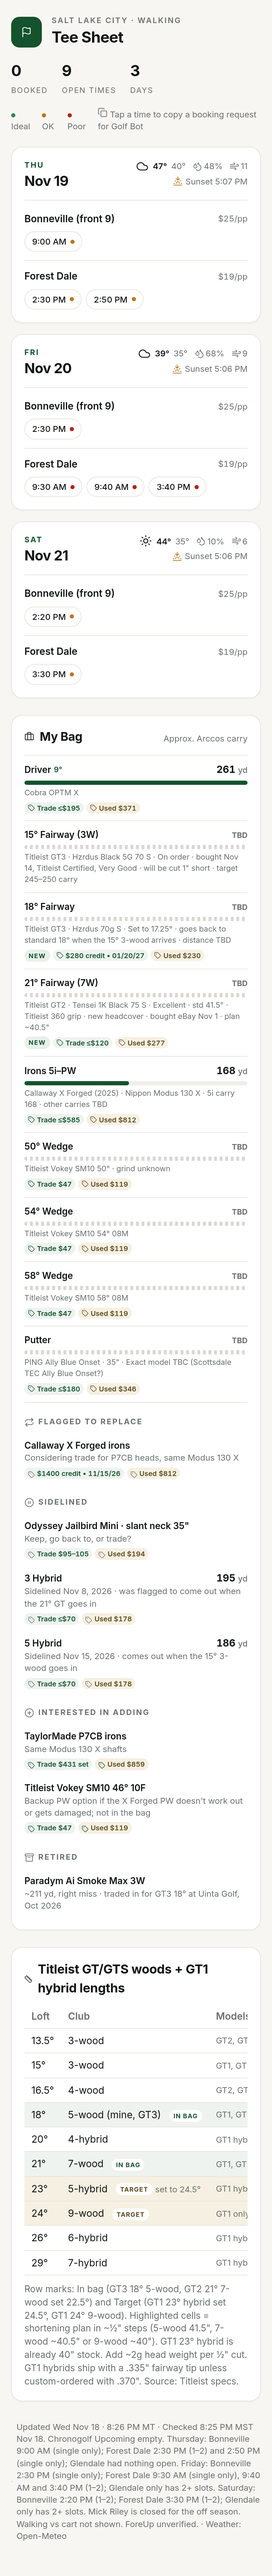
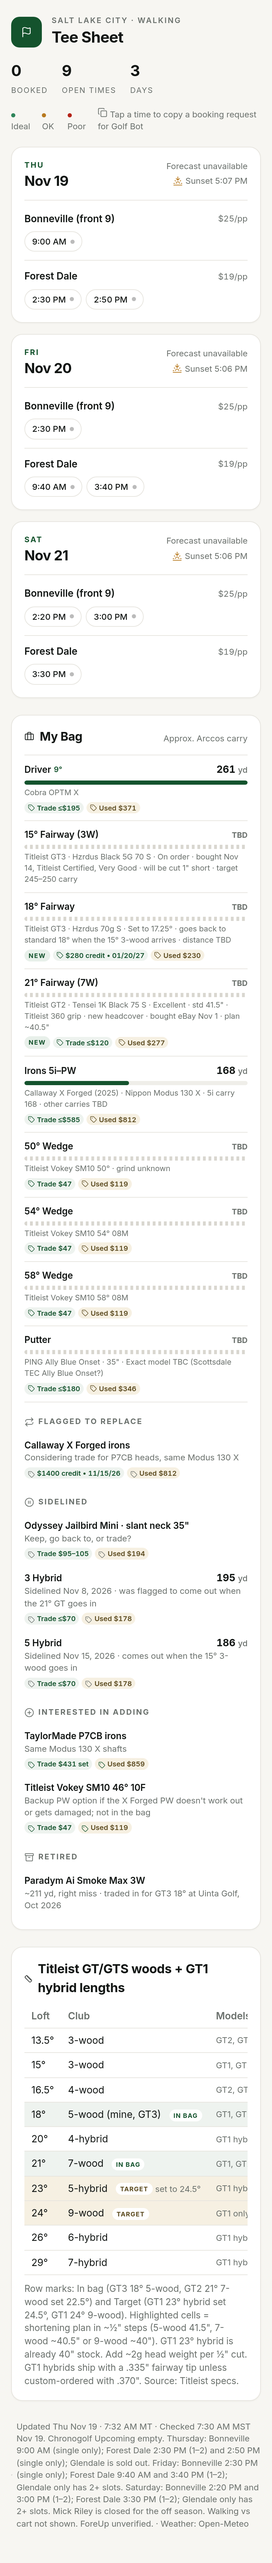
Update schedule 2026-11-19 07:32 MT

diff --git a/index.html b/index.html
@@ -49,8 +49,8 @@ ul{list-style:none;margin:0;padding:0}.ladder{border-top:1px solid var(--ln)}
 <div class="top"><div class="brand"><div class="logo"><i data-lucide="flag" class="ic "></i></div><div><div class="eyebrow">Salt Lake City · Walking</div><h1>Tee Sheet</h1></div></div>
 <div class="stats"><div class="stat"><b>0</b><span>Booked</span></div><div class="stat"><b>9</b><span>Open times</span></div><div class="stat"><b>3</b><span>Days</span></div></div></div>
 <div class="legend"><span><i class="dot ideal"></i>Ideal</span><span><i class="dot ok"></i>OK</span><span><i class="dot poor"></i>Poor</span><span><i data-lucide="copy" class="ic s"></i> Tap a time to copy a booking request for Golf Bot</span></div>
-<div class="layout"><div class="grid"><section class="card day"><header><div><div class="dow">Thu</div><div class="dt">Nov 19</div></div><div class="wxc"><div class="sum" title="☁ Overcast (7a–7p)"><i data-lucide="cloud" class="ic "></i><span class="hi">47°</span><span class="lo">40°</span><span class="m"><i data-lucide="droplets" class="ic s"></i>48%</span><span class="m"><i data-lucide="wind" class="ic s"></i>11</span></div><div class="sun"><i data-lucide="sunset" class="ic s"></i>Sunset 5:07 PM</div></div></header><div class="crs"><div class="row"><span class="cn">Bonneville (front 9)</span><span class="pr">$25/pp</span></div><div class="tts"><button class="tt ok" data-msg="Book Bonneville (front 9) Thu Nov 19 9:00 AM" title="☁ Overcast · 42°F · 18% precip · 9 mph · tap to copy booking request" aria-label="Copy: Book Bonneville (front 9) Thu Nov 19 9:00 AM" onclick="cp(this)"><span>9:00 AM</span><i class="dot"></i></button></div></div><div class="crs"><div class="row"><span class="cn">Forest Dale</span><span class="pr">$19/pp</span></div><div class="tts"><button class="tt ok" data-msg="Book Forest Dale Thu Nov 19 2:30 PM" title="☁ Overcast · 47°F · 34% precip · 8 mph · tap to copy booking request" aria-label="Copy: Book Forest Dale Thu Nov 19 2:30 PM" onclick="cp(this)"><span>2:30 PM</span><i class="dot"></i></button><button class="tt ok" data-msg="Book Forest Dale Thu Nov 19 2:50 PM" title="☁ Overcast · 47°F · 34% precip · 8 mph · tap to copy booking request" aria-label="Copy: Book Forest Dale Thu Nov 19 2:50 PM" onclick="cp(this)"><span>2:50 PM</span><i class="dot"></i></button></div></div></section><section class="card day"><header><div><div class="dow">Fri</div><div class="dt">Nov 20</div></div><div class="wxc"><div class="sum" title="☁ Overcast (7a–7p)"><i data-lucide="cloud" class="ic "></i><span class="hi">39°</span><span class="lo">35°</span><span class="m"><i data-lucide="droplets" class="ic s"></i>68%</span><span class="m"><i data-lucide="wind" class="ic s"></i>9</span></div><div class="sun"><i data-lucide="sunset" class="ic s"></i>Sunset 5:06 PM</div></div></header><div class="crs"><div class="row"><span class="cn">Bonneville (front 9)</span><span class="pr">$25/pp</span></div><div class="tts"><button class="tt poor" data-msg="Book Bonneville (front 9) Fri Nov 20 2:30 PM" title="☁ Overcast · 38°F · 68% precip · 6 mph · tap to copy booking request" aria-label="Copy: Book Bonneville (front 9) Fri Nov 20 2:30 PM" onclick="cp(this)"><span>2:30 PM</span><i class="dot"></i></button></div></div><div class="crs"><div class="row"><span class="cn">Forest Dale</span><span class="pr">$19/pp</span></div><div class="tts"><button class="tt poor" data-msg="Book Forest Dale Fri Nov 20 9:30 AM" title="☁ Overcast · 35°F · 56% precip · 5 mph · tap to copy booking request" aria-label="Copy: Book Forest Dale Fri Nov 20 9:30 AM" onclick="cp(this)"><span>9:30 AM</span><i class="dot"></i></button><button class="tt poor" data-msg="Book Forest Dale Fri Nov 20 9:40 AM" title="☁ Overcast · 35°F · 56% precip · 5 mph · tap to copy booking request" aria-label="Copy: Book Forest Dale Fri Nov 20 9:40 AM" onclick="cp(this)"><span>9:40 AM</span><i class="dot"></i></button><button class="tt poor" data-msg="Book Forest Dale Fri Nov 20 3:40 PM" title="☁ Overcast · 39°F · 68% precip · 7 mph · tap to copy booking request" aria-label="Copy: Book Forest Dale Fri Nov 20 3:40 PM" onclick="cp(this)"><span>3:40 PM</span><i class="dot"></i></button></div></div></section><section class="card day"><header><div><div class="dow">Sat</div><div class="dt">Nov 21</div></div><div class="wxc"><div class="sum" title="☀ Clear (7a–7p)"><i data-lucide="sun" class="ic "></i><span class="hi">44°</span><span class="lo">35°</span><span class="m"><i data-lucide="droplets" class="ic s"></i>10%</span><span class="m"><i data-lucide="wind" class="ic s"></i>6</span></div><div class="sun"><i data-lucide="sunset" class="ic s"></i>Sunset 5:06 PM</div></div></header><div class="crs"><div class="row"><span class="cn">Bonneville (front 9)</span><span class="pr">$25/pp</span></div><div class="tts"><button class="tt ok" data-msg="Book Bonneville (front 9) Sat Nov 21 2:20 PM" title="☀ Clear · 43°F · 2% precip · 4 mph · tap to copy booking request" aria-label="Copy: Book Bonneville (front 9) Sat Nov 21 2:20 PM" onclick="cp(this)"><span>2:20 PM</span><i class="dot"></i></button></div></div><div class="crs"><div class="row"><span class="cn">Forest Dale</span><span class="pr">$19/pp</span></div><div class="tts"><button class="tt ok" data-msg="Book Forest Dale Sat Nov 21 3:30 PM" title="☀ Clear · 44°F · 2% precip · 3 mph · tap to copy booking request" aria-label="Copy: Book Forest Dale Sat Nov 21 3:30 PM" onclick="cp(this)"><span>3:30 PM</span><i class="dot"></i></button></div></div></section></div><section class="card bag"><header><h2><i data-lucide="briefcase" class="ic s"></i>My Bag</h2><span class="muted">Approx. Arccos carry</span></header><ul class="ladder"><li class="lad"><div class="l1"><div class="cname">Driver <small>9°</small></div><div class="yd">261 <small>yd</small></div></div><div class="bar"><span style="width:100%"></span></div><div class="muted">Cobra OPTM X</div><div class=bdg><span class="val" title="On in Two trade-in (up-to ceiling) · Cobra OPTM X driver · 2026-11-16"><i data-lucide="tag" class="ic xs"></i>Trade ≤$195</span><span class="val used" title="2nd Swing used OPTM X Stiff: 9° Mint $379.99 (Kai&#x27;li White 60), 10.5° Above Average $362.99 · 2026-11-02"><i data-lucide="tag" class="ic xs"></i>Used $371</span></div></li><li class="lad"><div class="l1"><div class="cname">15° Fairway (3W)</div><div class="yd muted">TBD</div></div><div class="bar tbd"><span></span></div><div class="muted">Titleist GT3 · Hzrdus Black 5G 70 S · On order · bought Nov 14, Titleist Certified, Very Good · will be cut 1&quot; short · target 245–250 carry</div></li><li class="lad"><div class="l1"><div class="cname">18° Fairway</div><div class="yd muted">TBD</div></div><div class="bar tbd"><span></span></div><div class="muted">Titleist GT3 · Hzrdus 70g S · Set to 17.25° · goes back to standard 18° when the 15° 3-wood arrives · distance TBD</div><div class=bdg><span class="pill sm">New</span><span class="val" title="Uinta Golf 90-day guarantee, bought Oct 22, 2026 · 2026-10-22"><i data-lucide="tag" class="ic xs"></i>$280 credit • 01/20/27</span><span class="val used" title="Global Golf used GT3 fairway Excellent $229.99; eBay sold GT3 18° 5W median $231 (Teeworth, 90 days) · 2026-10-26"><i data-lucide="tag" class="ic xs"></i>Used $230</span></div></li><li class="lad"><div class="l1"><div class="cname">21° Fairway (7W)</div><div class="yd muted">TBD</div></div><div class="bar tbd"><span></span></div><div class="muted">Titleist GT2 · Tensei 1K Black 75 S · Excellent · std 41.5&quot; · Titleist 360 grip · new headcover · bought eBay Nov 1 · plan ~40.5&quot;</div><div class=bdg><span class="pill sm">New</span><span class="val" title="On in Two trade-in (up-to ceiling, excellent) · Titleist GT2 fairway · 2026-11-16"><i data-lucide="tag" class="ic xs"></i>Trade ≤$120</span><span class="val used" title="Avg of Global Golf GT2 Very Good $264.99 and Next Round GT2 Excellent $289.99; eBay sold median $200 (45 sales, Face Value Golf) · 2026-10-26"><i data-lucide="tag" class="ic xs"></i>Used $277</span></div></li><li class="lad"><div class="l1"><div class="cname">Irons 5i–PW</div><div class="yd">168 <small>yd</small></div></div><div class="bar"><span style="width:47%"></span></div><div class="muted">Callaway X Forged (2025) · Nippon Modus 130 X · 5i carry 168 · other carries TBD</div><div class=bdg><span class="val" title="On in Two trade-in (up-to ceiling) · Callaway 2025 X Forged iron set; set composition/shaft not specified, so 5i–PW offer may differ · 2026-11-16"><i data-lucide="tag" class="ic xs"></i>Trade ≤$585</span><span class="val used" title="FairwayWire eBay sold avg, X Forged 2025 set (18 sales, mostly 4-PW, mixed shafts); Excellent/Very Good sales $986–$1,200 · 2026-10-26"><i data-lucide="tag" class="ic xs"></i>Used $812</span></div></li><li class="lad"><div class="l1"><div class="cname">50° Wedge</div><div class="yd muted">TBD</div></div><div class="bar tbd"><span></span></div><div class="muted">Titleist Vokey SM10 50° · grind unknown</div><div class=bdg><span class="val" title="2nd Swing store credit via Face Value Golf (SM10 family, avg cond., checked Nov 14); best cash $45–47 · 2026-11-16"><i data-lucide="tag" class="ic xs"></i>Trade $47</span><span class="val used" title="Titleist Certified Pre-Owned SM10 Excellent $119 · 2026-10-26"><i data-lucide="tag" class="ic xs"></i>Used $119</span></div></li><li class="lad"><div class="l1"><div class="cname">54° Wedge</div><div class="yd muted">TBD</div></div><div class="bar tbd"><span></span></div><div class="muted">Titleist Vokey SM10 54° 08M</div><div class=bdg><span class="val" title="2nd Swing store credit via Face Value Golf (SM10 family, avg cond., checked Nov 14); best cash $45–47 · 2026-11-16"><i data-lucide="tag" class="ic xs"></i>Trade $47</span><span class="val used" title="Titleist Certified Pre-Owned SM10 Excellent $119 · 2026-10-26"><i data-lucide="tag" class="ic xs"></i>Used $119</span></div></li><li class="lad"><div class="l1"><div class="cname">58° Wedge</div><div class="yd muted">TBD</div></div><div class="bar tbd"><span></span></div><div class="muted">Titleist Vokey SM10 58° 08M</div><div class=bdg><span class="val" title="2nd Swing store credit via Face Value Golf (SM10 family, avg cond., checked Nov 14); best cash $45–47 · 2026-11-16"><i data-lucide="tag" class="ic xs"></i>Trade $47</span><span class="val used" title="Titleist Certified Pre-Owned SM10 Excellent $119 · 2026-10-26"><i data-lucide="tag" class="ic xs"></i>Used $119</span></div></li><li class="lad"><div class="l1"><div class="cname">Putter</div><div class="yd muted">TBD</div></div><div class="bar tbd"><span></span></div><div class="muted">PING Ally Blue Onset · 35&quot; · Exact model TBC (Scottsdale TEC Ally Blue Onset?)</div><div class=bdg><span class="val" title="On in Two trade-in (up-to ceiling) · Scottsdale TEC Ally Blue Onset; PLD SE Ally Blue 4 Onset $185 · 2026-11-16"><i data-lucide="tag" class="ic xs"></i>Trade ≤$180</span><span class="val used" title="ClubChecks used target, Scottsdale TEC Ally Blue Onset; Carl&#x27;s Golfland 35&quot; Very Good $349.99 · 2026-10-26"><i data-lucide="tag" class="ic xs"></i>Used $346</span></div></li></ul><div class="subs"><div class="sub"><h3><i data-lucide="repeat" class="ic s"></i>Flagged to replace</h3><ul class="lst replace"><li><div class="it"><div class="l1"><div class="cname">Callaway X Forged irons</div></div><div class="muted">Considering trade for P7CB heads, same Modus 130 X</div><div class=bdg><span class="val" title="Jason: trade-in guarantee value, trade by Nov 15, 2026 (deadline approx., per Jason) · 2026-10-26"><i data-lucide="tag" class="ic xs"></i>$1400 credit • 11/15/26</span><span class="val used" title="FairwayWire eBay sold avg, X Forged 2025 set (18 sales, mostly 4-PW, mixed shafts); Excellent/Very Good sales $986–$1,200 · 2026-10-26"><i data-lucide="tag" class="ic xs"></i>Used $812</span></div></div></li></ul></div><div class="sub"><h3><i data-lucide="pause-circle" class="ic s"></i>Sidelined</h3><ul class="lst sidelined"><li><div class="it"><div class="l1"><div class="cname">Odyssey Jailbird Mini · slant neck 35&quot;</div></div><div class="muted">Keep, go back to, or trade?</div><div class=bdg><span class="val" title="On in Two trade-in ceilings: Ai-ONE Jailbird Mini S $95 – Ai-DUAL Jailbird Mini $105 (exact version TBC) · 2026-11-16"><i data-lucide="tag" class="ic xs"></i>Trade $95–105</span><span class="val used" title="Golf Club Index avg sold, Odyssey Ai-ONE Jailbird Mini (exact version TBC) · 2026-10-26"><i data-lucide="tag" class="ic xs"></i>Used $194</span></div></div></li><li><div class="it"><div class="l1"><div class="cname">3 Hybrid</div><div class=yd>195 <small>yd</small></div></div><div class="muted">Sidelined Nov 8, 2026 · was flagged to come out when the 21° GT goes in</div><div class=bdg><span class="val" title="On in Two trade-in (up-to ceiling) · 2026-11-16"><i data-lucide="tag" class="ic xs"></i>Trade ≤$70</span><span class="val used" title="Face Value Golf typical used asking, Paradym Super hybrid Above Average grade (Callaway Pre-Owned from $120 Avg) · 2026-10-26"><i data-lucide="tag" class="ic xs"></i>Used $178</span></div></div></li><li><div class="it"><div class="l1"><div class="cname">5 Hybrid</div><div class=yd>186 <small>yd</small></div></div><div class="muted">Sidelined Nov 15, 2026 · comes out when the 15° 3-wood goes in</div><div class=bdg><span class="val" title="On in Two trade-in (up-to ceiling) · 2026-11-16"><i data-lucide="tag" class="ic xs"></i>Trade ≤$70</span><span class="val used" title="Face Value Golf typical used asking, Paradym Super hybrid Above Average grade (Callaway Pre-Owned from $120 Avg) · 2026-10-26"><i data-lucide="tag" class="ic xs"></i>Used $178</span></div></div></li></ul></div><div class="sub"><h3><i data-lucide="plus-circle" class="ic s"></i>Interested in adding</h3><ul class="lst add"><li><div class="it"><div class="l1"><div class="cname">TaylorMade P7CB irons</div></div><div class="muted">Same Modus 130 X shafts</div><div class=bdg><span class="val" title="Face Value Golf: best cash offer, iGolf Value Guide, 7-club set, Average ($61.50/club), checked Oct 11 · 2026-10-26"><i data-lucide="tag" class="ic xs"></i>Trade $431 set</span><span class="val used" title="Face Value Golf typical used asking, 7-club set, median of 44 listings (Average or better), checked Oct 11; Global Golf Average 4-PW $760 · 2026-10-26"><i data-lucide="tag" class="ic xs"></i>Used $859</span></div></div></li><li><div class="it"><div class="l1"><div class="cname">Titleist Vokey SM10 46° 10F</div></div><div class="muted">Backup PW option if the X Forged PW doesn&#x27;t work out or gets damaged; not in the bag</div><div class=bdg><span class="val" title="2nd Swing store credit via Face Value Golf (SM10 family, avg cond.) · 2026-10-23"><i data-lucide="tag" class="ic xs"></i>Trade $47</span><span class="val used" title="Titleist Certified Pre-Owned SM10 Excellent $119 · 2026-10-26"><i data-lucide="tag" class="ic xs"></i>Used $119</span></div></div></li></ul></div><div class="sub"><h3><i data-lucide="archive" class="ic s"></i>Retired</h3><ul class="lst retired"><li><div class="it"><div class="l1"><div class="cname">Paradym Ai Smoke Max 3W</div></div><div class="muted">~211 yd, right miss · traded in for GT3 18° at Uinta Golf, Oct 2026</div></div></li></ul></div></div></section></div><section class="card lenchart"><header><h2><i data-lucide="ruler" class="ic s"></i>Titleist GT/GTS woods + GT1 hybrid lengths</h2></header><div class="tw"><table><thead><tr><th>Loft</th><th>Club</th><th>Models</th><th>Std</th><th>−½"</th><th>−1"</th></tr></thead><tbody><tr><td>13.5°</td><td>3-wood</td><td class="muted">GT2, GTS2</td><td>43"</td><td>42.5"</td><td>42"</td></tr><tr><td>15°</td><td>3-wood</td><td class="muted">GT1, GT2, GT3, GTS</td><td>43"</td><td>42.5"</td><td>42"</td></tr><tr><td>16.5°</td><td>4-wood</td><td class="muted">GT2, GT3, GTS</td><td>43"</td><td>42.5"</td><td>42"</td></tr><tr class="inbag"><td>18°</td><td>5-wood (mine, GT3) <span class="mtag">In bag</span></td><td class="muted">GT1, GT2, GT3, GTS</td><td>42"</td><td class=hl>41.5"</td><td>41"</td></tr><tr><td>20°</td><td>4-hybrid</td><td class="muted">GT1 hybrid</td><td>40.5"</td><td>40"</td><td>39.5"</td></tr><tr class="inbag"><td>21°</td><td>7-wood <span class="mtag">In bag</span></td><td class="muted">GT1, GT2, GTS</td><td>41.5"</td><td>41"</td><td class=hl>40.5"</td></tr><tr class="target"><td>23°</td><td>5-hybrid <span class="mtag">Target</span> <span class="muted">set to 24.5°</span></td><td class="muted">GT1 hybrid</td><td>40"</td><td>39.5"</td><td>39"</td></tr><tr class="target"><td>24°</td><td>9-wood <span class="mtag">Target</span></td><td class="muted">GT1 only</td><td>41"</td><td>40.5"</td><td class=hl>40"</td></tr><tr><td>26°</td><td>6-hybrid</td><td class="muted">GT1 hybrid</td><td>39.5"</td><td>39"</td><td>38.5"</td></tr><tr><td>29°</td><td>7-hybrid</td><td class="muted">GT1 hybrid</td><td>39"</td><td>38.5"</td><td>38"</td></tr></tbody></table></div><p class="muted">Row marks: In bag (GT3 18° 5-wood, GT2 21° 7-wood set 22.5°) and Target (GT1 23° hybrid set 24.5°, GT1 24° 9-wood). Highlighted cells = shortening plan in ~½" steps (5-wood 41.5", 7-wood ~40.5" or 9-wood ~40"). GT1 23° hybrid is already 40" stock. Add ~2g head weight per ½" cut. GT1 hybrids ship with a .335" fairway tip unless custom-ordered with .370". Source: Titleist specs.</p></section>
-<div class="foot"><i data-lucide="refresh-cw" class="ic s"></i>Updated Wed Nov 18 · 8:26 PM MT · Checked 8:25 PM MST Nov 18. Chronogolf Upcoming empty. Thursday: Bonneville 9:00 AM (single only); Forest Dale 2:30 PM (1–2) and 2:50 PM (single only); Glendale had nothing open. Friday: Bonneville 2:30 PM (single only); Forest Dale 9:30 AM (single only), 9:40 AM and 3:40 PM (1–2); Glendale only has 2+ slots. Saturday: Bonneville 2:20 PM (1–2); Forest Dale 3:30 PM (1–2); Glendale only has 2+ slots. Mick Riley is closed for the off season. Walking vs cart not shown. ForeUp unverified. · Weather: Open-Meteo</div></div>
+<div class="layout"><div class="grid"><section class="card day"><header><div><div class="dow">Thu</div><div class="dt">Nov 19</div></div><div class="wxc"><div class="sum muted">Forecast unavailable</div><div class="sun"><i data-lucide="sunset" class="ic s"></i>Sunset 5:07 PM</div></div></header><div class="crs"><div class="row"><span class="cn">Bonneville (front 9)</span><span class="pr">$25/pp</span></div><div class="tts"><button class="tt na" data-msg="Book Bonneville (front 9) Thu Nov 19 9:00 AM" title="Weather unavailable · tap to copy booking request" aria-label="Copy: Book Bonneville (front 9) Thu Nov 19 9:00 AM" onclick="cp(this)"><span>9:00 AM</span><i class="dot"></i></button></div></div><div class="crs"><div class="row"><span class="cn">Forest Dale</span><span class="pr">$19/pp</span></div><div class="tts"><button class="tt na" data-msg="Book Forest Dale Thu Nov 19 2:30 PM" title="Weather unavailable · tap to copy booking request" aria-label="Copy: Book Forest Dale Thu Nov 19 2:30 PM" onclick="cp(this)"><span>2:30 PM</span><i class="dot"></i></button><button class="tt na" data-msg="Book Forest Dale Thu Nov 19 2:50 PM" title="Weather unavailable · tap to copy booking request" aria-label="Copy: Book Forest Dale Thu Nov 19 2:50 PM" onclick="cp(this)"><span>2:50 PM</span><i class="dot"></i></button></div></div></section><section class="card day"><header><div><div class="dow">Fri</div><div class="dt">Nov 20</div></div><div class="wxc"><div class="sum muted">Forecast unavailable</div><div class="sun"><i data-lucide="sunset" class="ic s"></i>Sunset 5:06 PM</div></div></header><div class="crs"><div class="row"><span class="cn">Bonneville (front 9)</span><span class="pr">$25/pp</span></div><div class="tts"><button class="tt na" data-msg="Book Bonneville (front 9) Fri Nov 20 2:30 PM" title="Weather unavailable · tap to copy booking request" aria-label="Copy: Book Bonneville (front 9) Fri Nov 20 2:30 PM" onclick="cp(this)"><span>2:30 PM</span><i class="dot"></i></button></div></div><div class="crs"><div class="row"><span class="cn">Forest Dale</span><span class="pr">$19/pp</span></div><div class="tts"><button class="tt na" data-msg="Book Forest Dale Fri Nov 20 9:40 AM" title="Weather unavailable · tap to copy booking request" aria-label="Copy: Book Forest Dale Fri Nov 20 9:40 AM" onclick="cp(this)"><span>9:40 AM</span><i class="dot"></i></button><button class="tt na" data-msg="Book Forest Dale Fri Nov 20 3:40 PM" title="Weather unavailable · tap to copy booking request" aria-label="Copy: Book Forest Dale Fri Nov 20 3:40 PM" onclick="cp(this)"><span>3:40 PM</span><i class="dot"></i></button></div></div></section><section class="card day"><header><div><div class="dow">Sat</div><div class="dt">Nov 21</div></div><div class="wxc"><div class="sum muted">Forecast unavailable</div><div class="sun"><i data-lucide="sunset" class="ic s"></i>Sunset 5:06 PM</div></div></header><div class="crs"><div class="row"><span class="cn">Bonneville (front 9)</span><span class="pr">$25/pp</span></div><div class="tts"><button class="tt na" data-msg="Book Bonneville (front 9) Sat Nov 21 2:20 PM" title="Weather unavailable · tap to copy booking request" aria-label="Copy: Book Bonneville (front 9) Sat Nov 21 2:20 PM" onclick="cp(this)"><span>2:20 PM</span><i class="dot"></i></button><button class="tt na" data-msg="Book Bonneville (front 9) Sat Nov 21 3:00 PM" title="Weather unavailable · tap to copy booking request" aria-label="Copy: Book Bonneville (front 9) Sat Nov 21 3:00 PM" onclick="cp(this)"><span>3:00 PM</span><i class="dot"></i></button></div></div><div class="crs"><div class="row"><span class="cn">Forest Dale</span><span class="pr">$19/pp</span></div><div class="tts"><button class="tt na" data-msg="Book Forest Dale Sat Nov 21 3:30 PM" title="Weather unavailable · tap to copy booking request" aria-label="Copy: Book Forest Dale Sat Nov 21 3:30 PM" onclick="cp(this)"><span>3:30 PM</span><i class="dot"></i></button></div></div></section></div><section class="card bag"><header><h2><i data-lucide="briefcase" class="ic s"></i>My Bag</h2><span class="muted">Approx. Arccos carry</span></header><ul class="ladder"><li class="lad"><div class="l1"><div class="cname">Driver <small>9°</small></div><div class="yd">261 <small>yd</small></div></div><div class="bar"><span style="width:100%"></span></div><div class="muted">Cobra OPTM X</div><div class=bdg><span class="val" title="On in Two trade-in (up-to ceiling) · Cobra OPTM X driver · 2026-11-16"><i data-lucide="tag" class="ic xs"></i>Trade ≤$195</span><span class="val used" title="2nd Swing used OPTM X Stiff: 9° Mint $379.99 (Kai&#x27;li White 60), 10.5° Above Average $362.99 · 2026-11-02"><i data-lucide="tag" class="ic xs"></i>Used $371</span></div></li><li class="lad"><div class="l1"><div class="cname">15° Fairway (3W)</div><div class="yd muted">TBD</div></div><div class="bar tbd"><span></span></div><div class="muted">Titleist GT3 · Hzrdus Black 5G 70 S · On order · bought Nov 14, Titleist Certified, Very Good · will be cut 1&quot; short · target 245–250 carry</div></li><li class="lad"><div class="l1"><div class="cname">18° Fairway</div><div class="yd muted">TBD</div></div><div class="bar tbd"><span></span></div><div class="muted">Titleist GT3 · Hzrdus 70g S · Set to 17.25° · goes back to standard 18° when the 15° 3-wood arrives · distance TBD</div><div class=bdg><span class="pill sm">New</span><span class="val" title="Uinta Golf 90-day guarantee, bought Oct 22, 2026 · 2026-10-22"><i data-lucide="tag" class="ic xs"></i>$280 credit • 01/20/27</span><span class="val used" title="Global Golf used GT3 fairway Excellent $229.99; eBay sold GT3 18° 5W median $231 (Teeworth, 90 days) · 2026-10-26"><i data-lucide="tag" class="ic xs"></i>Used $230</span></div></li><li class="lad"><div class="l1"><div class="cname">21° Fairway (7W)</div><div class="yd muted">TBD</div></div><div class="bar tbd"><span></span></div><div class="muted">Titleist GT2 · Tensei 1K Black 75 S · Excellent · std 41.5&quot; · Titleist 360 grip · new headcover · bought eBay Nov 1 · plan ~40.5&quot;</div><div class=bdg><span class="pill sm">New</span><span class="val" title="On in Two trade-in (up-to ceiling, excellent) · Titleist GT2 fairway · 2026-11-16"><i data-lucide="tag" class="ic xs"></i>Trade ≤$120</span><span class="val used" title="Avg of Global Golf GT2 Very Good $264.99 and Next Round GT2 Excellent $289.99; eBay sold median $200 (45 sales, Face Value Golf) · 2026-10-26"><i data-lucide="tag" class="ic xs"></i>Used $277</span></div></li><li class="lad"><div class="l1"><div class="cname">Irons 5i–PW</div><div class="yd">168 <small>yd</small></div></div><div class="bar"><span style="width:47%"></span></div><div class="muted">Callaway X Forged (2025) · Nippon Modus 130 X · 5i carry 168 · other carries TBD</div><div class=bdg><span class="val" title="On in Two trade-in (up-to ceiling) · Callaway 2025 X Forged iron set; set composition/shaft not specified, so 5i–PW offer may differ · 2026-11-16"><i data-lucide="tag" class="ic xs"></i>Trade ≤$585</span><span class="val used" title="FairwayWire eBay sold avg, X Forged 2025 set (18 sales, mostly 4-PW, mixed shafts); Excellent/Very Good sales $986–$1,200 · 2026-10-26"><i data-lucide="tag" class="ic xs"></i>Used $812</span></div></li><li class="lad"><div class="l1"><div class="cname">50° Wedge</div><div class="yd muted">TBD</div></div><div class="bar tbd"><span></span></div><div class="muted">Titleist Vokey SM10 50° · grind unknown</div><div class=bdg><span class="val" title="2nd Swing store credit via Face Value Golf (SM10 family, avg cond., checked Nov 14); best cash $45–47 · 2026-11-16"><i data-lucide="tag" class="ic xs"></i>Trade $47</span><span class="val used" title="Titleist Certified Pre-Owned SM10 Excellent $119 · 2026-10-26"><i data-lucide="tag" class="ic xs"></i>Used $119</span></div></li><li class="lad"><div class="l1"><div class="cname">54° Wedge</div><div class="yd muted">TBD</div></div><div class="bar tbd"><span></span></div><div class="muted">Titleist Vokey SM10 54° 08M</div><div class=bdg><span class="val" title="2nd Swing store credit via Face Value Golf (SM10 family, avg cond., checked Nov 14); best cash $45–47 · 2026-11-16"><i data-lucide="tag" class="ic xs"></i>Trade $47</span><span class="val used" title="Titleist Certified Pre-Owned SM10 Excellent $119 · 2026-10-26"><i data-lucide="tag" class="ic xs"></i>Used $119</span></div></li><li class="lad"><div class="l1"><div class="cname">58° Wedge</div><div class="yd muted">TBD</div></div><div class="bar tbd"><span></span></div><div class="muted">Titleist Vokey SM10 58° 08M</div><div class=bdg><span class="val" title="2nd Swing store credit via Face Value Golf (SM10 family, avg cond., checked Nov 14); best cash $45–47 · 2026-11-16"><i data-lucide="tag" class="ic xs"></i>Trade $47</span><span class="val used" title="Titleist Certified Pre-Owned SM10 Excellent $119 · 2026-10-26"><i data-lucide="tag" class="ic xs"></i>Used $119</span></div></li><li class="lad"><div class="l1"><div class="cname">Putter</div><div class="yd muted">TBD</div></div><div class="bar tbd"><span></span></div><div class="muted">PING Ally Blue Onset · 35&quot; · Exact model TBC (Scottsdale TEC Ally Blue Onset?)</div><div class=bdg><span class="val" title="On in Two trade-in (up-to ceiling) · Scottsdale TEC Ally Blue Onset; PLD SE Ally Blue 4 Onset $185 · 2026-11-16"><i data-lucide="tag" class="ic xs"></i>Trade ≤$180</span><span class="val used" title="ClubChecks used target, Scottsdale TEC Ally Blue Onset; Carl&#x27;s Golfland 35&quot; Very Good $349.99 · 2026-10-26"><i data-lucide="tag" class="ic xs"></i>Used $346</span></div></li></ul><div class="subs"><div class="sub"><h3><i data-lucide="repeat" class="ic s"></i>Flagged to replace</h3><ul class="lst replace"><li><div class="it"><div class="l1"><div class="cname">Callaway X Forged irons</div></div><div class="muted">Considering trade for P7CB heads, same Modus 130 X</div><div class=bdg><span class="val" title="Jason: trade-in guarantee value, trade by Nov 15, 2026 (deadline approx., per Jason) · 2026-10-26"><i data-lucide="tag" class="ic xs"></i>$1400 credit • 11/15/26</span><span class="val used" title="FairwayWire eBay sold avg, X Forged 2025 set (18 sales, mostly 4-PW, mixed shafts); Excellent/Very Good sales $986–$1,200 · 2026-10-26"><i data-lucide="tag" class="ic xs"></i>Used $812</span></div></div></li></ul></div><div class="sub"><h3><i data-lucide="pause-circle" class="ic s"></i>Sidelined</h3><ul class="lst sidelined"><li><div class="it"><div class="l1"><div class="cname">Odyssey Jailbird Mini · slant neck 35&quot;</div></div><div class="muted">Keep, go back to, or trade?</div><div class=bdg><span class="val" title="On in Two trade-in ceilings: Ai-ONE Jailbird Mini S $95 – Ai-DUAL Jailbird Mini $105 (exact version TBC) · 2026-11-16"><i data-lucide="tag" class="ic xs"></i>Trade $95–105</span><span class="val used" title="Golf Club Index avg sold, Odyssey Ai-ONE Jailbird Mini (exact version TBC) · 2026-10-26"><i data-lucide="tag" class="ic xs"></i>Used $194</span></div></div></li><li><div class="it"><div class="l1"><div class="cname">3 Hybrid</div><div class=yd>195 <small>yd</small></div></div><div class="muted">Sidelined Nov 8, 2026 · was flagged to come out when the 21° GT goes in</div><div class=bdg><span class="val" title="On in Two trade-in (up-to ceiling) · 2026-11-16"><i data-lucide="tag" class="ic xs"></i>Trade ≤$70</span><span class="val used" title="Face Value Golf typical used asking, Paradym Super hybrid Above Average grade (Callaway Pre-Owned from $120 Avg) · 2026-10-26"><i data-lucide="tag" class="ic xs"></i>Used $178</span></div></div></li><li><div class="it"><div class="l1"><div class="cname">5 Hybrid</div><div class=yd>186 <small>yd</small></div></div><div class="muted">Sidelined Nov 15, 2026 · comes out when the 15° 3-wood goes in</div><div class=bdg><span class="val" title="On in Two trade-in (up-to ceiling) · 2026-11-16"><i data-lucide="tag" class="ic xs"></i>Trade ≤$70</span><span class="val used" title="Face Value Golf typical used asking, Paradym Super hybrid Above Average grade (Callaway Pre-Owned from $120 Avg) · 2026-10-26"><i data-lucide="tag" class="ic xs"></i>Used $178</span></div></div></li></ul></div><div class="sub"><h3><i data-lucide="plus-circle" class="ic s"></i>Interested in adding</h3><ul class="lst add"><li><div class="it"><div class="l1"><div class="cname">TaylorMade P7CB irons</div></div><div class="muted">Same Modus 130 X shafts</div><div class=bdg><span class="val" title="Face Value Golf: best cash offer, iGolf Value Guide, 7-club set, Average ($61.50/club), checked Oct 11 · 2026-10-26"><i data-lucide="tag" class="ic xs"></i>Trade $431 set</span><span class="val used" title="Face Value Golf typical used asking, 7-club set, median of 44 listings (Average or better), checked Oct 11; Global Golf Average 4-PW $760 · 2026-10-26"><i data-lucide="tag" class="ic xs"></i>Used $859</span></div></div></li><li><div class="it"><div class="l1"><div class="cname">Titleist Vokey SM10 46° 10F</div></div><div class="muted">Backup PW option if the X Forged PW doesn&#x27;t work out or gets damaged; not in the bag</div><div class=bdg><span class="val" title="2nd Swing store credit via Face Value Golf (SM10 family, avg cond.) · 2026-10-23"><i data-lucide="tag" class="ic xs"></i>Trade $47</span><span class="val used" title="Titleist Certified Pre-Owned SM10 Excellent $119 · 2026-10-26"><i data-lucide="tag" class="ic xs"></i>Used $119</span></div></div></li></ul></div><div class="sub"><h3><i data-lucide="archive" class="ic s"></i>Retired</h3><ul class="lst retired"><li><div class="it"><div class="l1"><div class="cname">Paradym Ai Smoke Max 3W</div></div><div class="muted">~211 yd, right miss · traded in for GT3 18° at Uinta Golf, Oct 2026</div></div></li></ul></div></div></section></div><section class="card lenchart"><header><h2><i data-lucide="ruler" class="ic s"></i>Titleist GT/GTS woods + GT1 hybrid lengths</h2></header><div class="tw"><table><thead><tr><th>Loft</th><th>Club</th><th>Models</th><th>Std</th><th>−½"</th><th>−1"</th></tr></thead><tbody><tr><td>13.5°</td><td>3-wood</td><td class="muted">GT2, GTS2</td><td>43"</td><td>42.5"</td><td>42"</td></tr><tr><td>15°</td><td>3-wood</td><td class="muted">GT1, GT2, GT3, GTS</td><td>43"</td><td>42.5"</td><td>42"</td></tr><tr><td>16.5°</td><td>4-wood</td><td class="muted">GT2, GT3, GTS</td><td>43"</td><td>42.5"</td><td>42"</td></tr><tr class="inbag"><td>18°</td><td>5-wood (mine, GT3) <span class="mtag">In bag</span></td><td class="muted">GT1, GT2, GT3, GTS</td><td>42"</td><td class=hl>41.5"</td><td>41"</td></tr><tr><td>20°</td><td>4-hybrid</td><td class="muted">GT1 hybrid</td><td>40.5"</td><td>40"</td><td>39.5"</td></tr><tr class="inbag"><td>21°</td><td>7-wood <span class="mtag">In bag</span></td><td class="muted">GT1, GT2, GTS</td><td>41.5"</td><td>41"</td><td class=hl>40.5"</td></tr><tr class="target"><td>23°</td><td>5-hybrid <span class="mtag">Target</span> <span class="muted">set to 24.5°</span></td><td class="muted">GT1 hybrid</td><td>40"</td><td>39.5"</td><td>39"</td></tr><tr class="target"><td>24°</td><td>9-wood <span class="mtag">Target</span></td><td class="muted">GT1 only</td><td>41"</td><td>40.5"</td><td class=hl>40"</td></tr><tr><td>26°</td><td>6-hybrid</td><td class="muted">GT1 hybrid</td><td>39.5"</td><td>39"</td><td>38.5"</td></tr><tr><td>29°</td><td>7-hybrid</td><td class="muted">GT1 hybrid</td><td>39"</td><td>38.5"</td><td>38"</td></tr></tbody></table></div><p class="muted">Row marks: In bag (GT3 18° 5-wood, GT2 21° 7-wood set 22.5°) and Target (GT1 23° hybrid set 24.5°, GT1 24° 9-wood). Highlighted cells = shortening plan in ~½" steps (5-wood 41.5", 7-wood ~40.5" or 9-wood ~40"). GT1 23° hybrid is already 40" stock. Add ~2g head weight per ½" cut. GT1 hybrids ship with a .335" fairway tip unless custom-ordered with .370". Source: Titleist specs.</p></section>
+<div class="foot"><i data-lucide="refresh-cw" class="ic s"></i>Updated Thu Nov 19 · 7:32 AM MT · Checked 7:30 AM MST Nov 19. Chronogolf Upcoming empty. Thursday: Bonneville 9:00 AM (single only); Forest Dale 2:30 PM (1–2) and 2:50 PM (single only); Glendale is sold out. Friday: Bonneville 2:30 PM (single only); Forest Dale 9:40 AM and 3:40 PM (1–2); Glendale only has 2+ slots. Saturday: Bonneville 2:20 PM and 3:00 PM (1–2); Forest Dale 3:30 PM (1–2); Glendale only has 2+ slots. Mick Riley is closed for the off season. Walking vs cart not shown. ForeUp unverified. · Weather: Open-Meteo</div></div>
 <div class="toast" id="toast" role="status"><i data-lucide="check" class="ic s"></i><span>Copied — paste in Golf Bot chat</span></div>
 <script>
 function cp(b){navigator.clipboard&&navigator.clipboard.writeText(b.dataset.msg);b.classList.add('copied');const t=document.getElementById('toast');t.classList.add('on');setTimeout(()=>{b.classList.remove('copied');t.classList.remove('on')},1600)}
